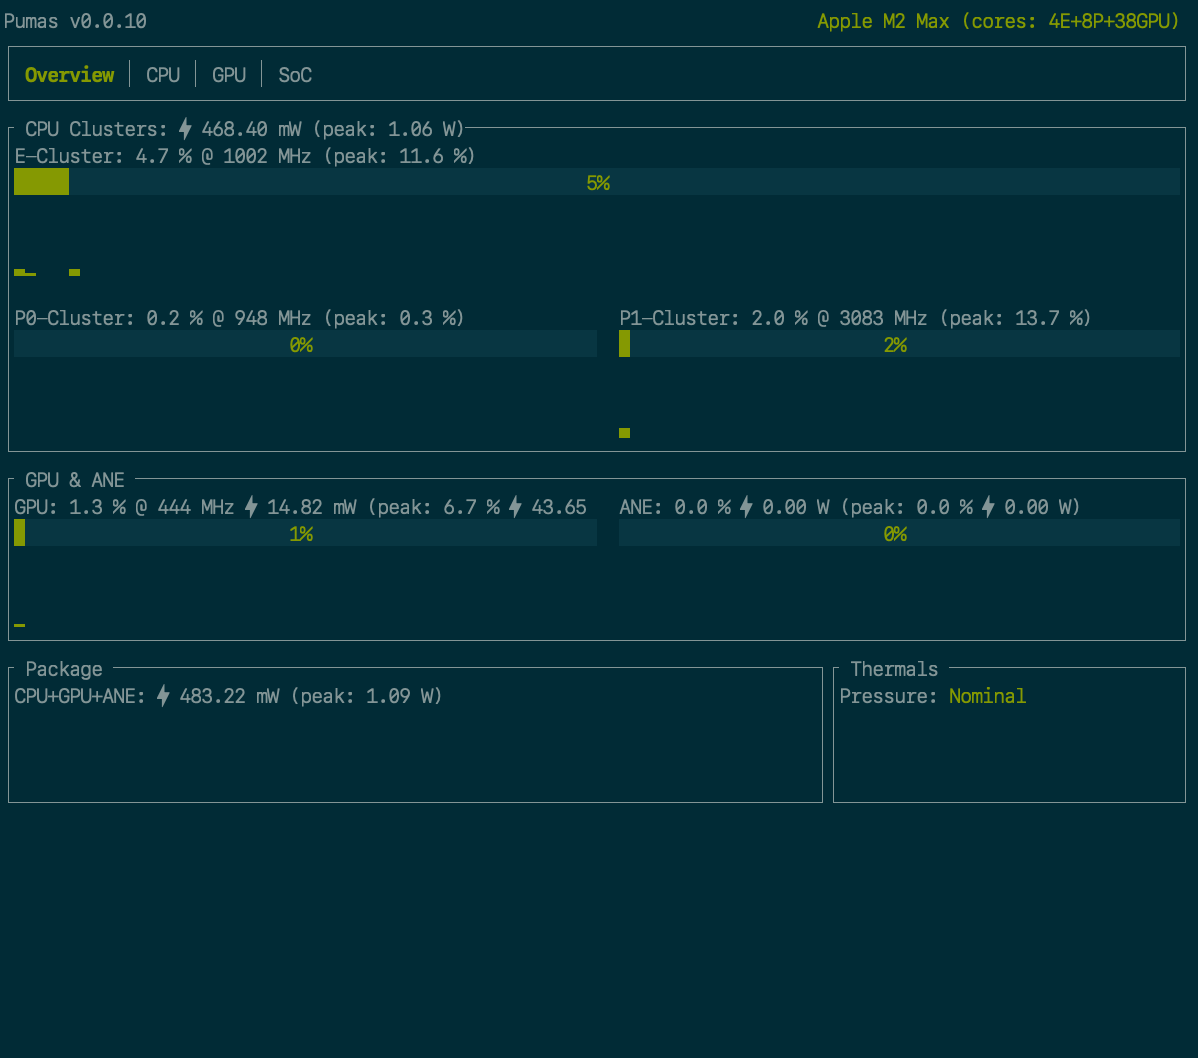
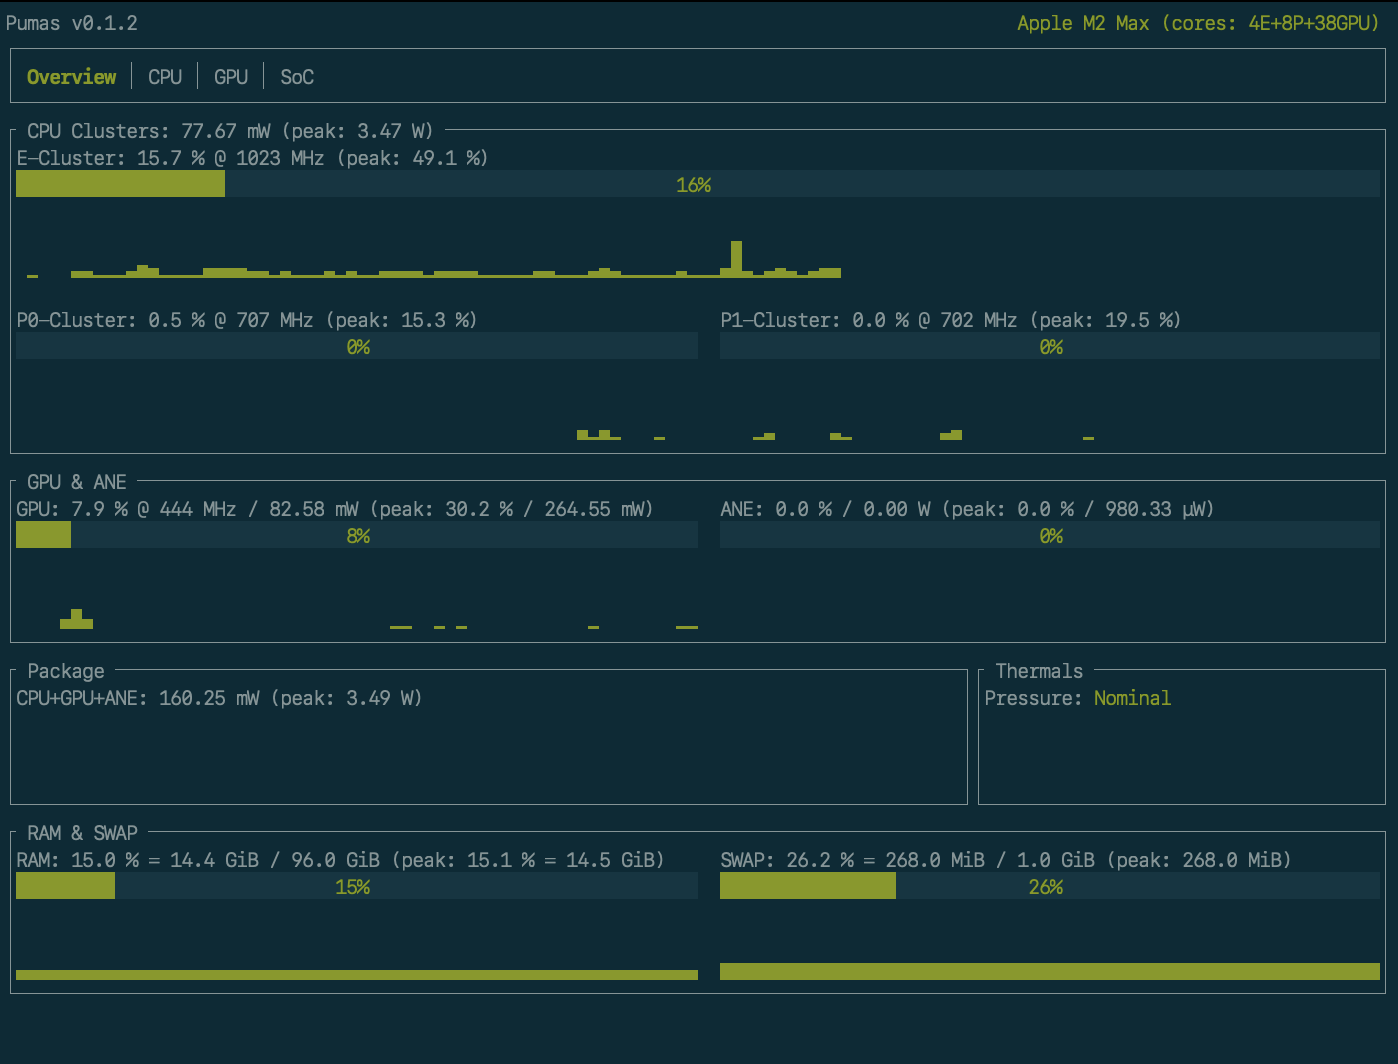
chore(memory): update docs & overview screenshot

diff --git a/src/lib.rs b/src/lib.rs
@@ -9,16 +9,15 @@
 //! | Power       | CPU, GPU, ANE, total package | ✓         | History & current values                                  |
 //! | Frequency   | CPU Clusters, GPU            | ✓         | Current avg. values                                       |
 //! | Frequency   | CPU Clusters, GPU            | planned   | Residency distrib. histograms                             |
-//! | Memory      | RAM & swap: size and usage   | planned   | Apple removed memory bandwidth from powermetrics.         |
+//! | Memory      | RAM & Swap: size and usage   | ✓         | Apple removed memory bandwidth from powermetrics.         |
 //!
-//! Pumas uses the built-in `powermetrics` utility on macOS, which allows access to a
-//! variety of hardware performance counters. Note that it requires `sudo` to run due
-//! to `powermetrics` needing root access to run. Pumas is lightweight and has
-//! minimal performance impact.
+//! To gather data, Pumas uses both the macOS built-in `powermetrics` utility, and the `sysinfo`
+//! crate (same data as `htop`).
 //!
-//! Pumas only works on Apple Silicon Macs on macOS Monterey and later.
+//! The built-in `powermetrics` allows access to a variety of hardware performance counters. Note
+//! that Pumas requires `sudo` to run only due to `powermetrics` needing root access to run.
 //!
-//! This is a work in progress.
+//! Pumas is lightweight and has minimal performance impact.
 //!
 //! ## Installation
 //!
@@ -122,6 +121,7 @@
 //!
 //! - per-cluster CPU utilization
 //! - per-core CPU utilization
+//! - RAM & Swap usage & size
 //!
 //! `powermetrics` is used to measure the following:
 //!

diff --git a/README.md b/README.md
@@ -19,16 +19,15 @@ reimplemented version of [asitop] in Rust.
 | Power       | CPU, GPU, ANE, total package | ✓         | History & current values                                  |
 | Frequency   | CPU Clusters, GPU            | ✓         | Current avg. values                                       |
 | Frequency   | CPU Clusters, GPU            | planned   | Residency distrib. histograms                             |
-| Memory      | RAM & swap: size and usage   | planned   | Apple removed memory bandwidth from powermetrics.         |
+| Memory      | RAM & Swap: size and usage   | ✓         | Apple removed memory bandwidth from powermetrics.         |
 
-Pumas uses the built-in `powermetrics` utility on macOS, which allows access to a
-variety of hardware performance counters. Note that it requires `sudo` to run due
-to `powermetrics` needing root access to run. Pumas is lightweight and has
-minimal performance impact.
+To gather data, Pumas uses both the macOS built-in `powermetrics` utility, and the `sysinfo`
+crate (same data as `htop`).
 
-Pumas only works on Apple Silicon Macs on macOS Monterey and later.
+The built-in `powermetrics` allows access to a variety of hardware performance counters. Note
+that Pumas requires `sudo` to run only due to `powermetrics` needing root access to run.
 
-This is a work in progress.
+Pumas is lightweight and has minimal performance impact.
 
 ## Installation
 
@@ -132,6 +131,7 @@ The JSON schema and an example are available in the [schema](./schema) directory
 
 - per-cluster CPU utilization
 - per-core CPU utilization
+- RAM & Swap usage & size
 
 `powermetrics` is used to measure the following:
 
